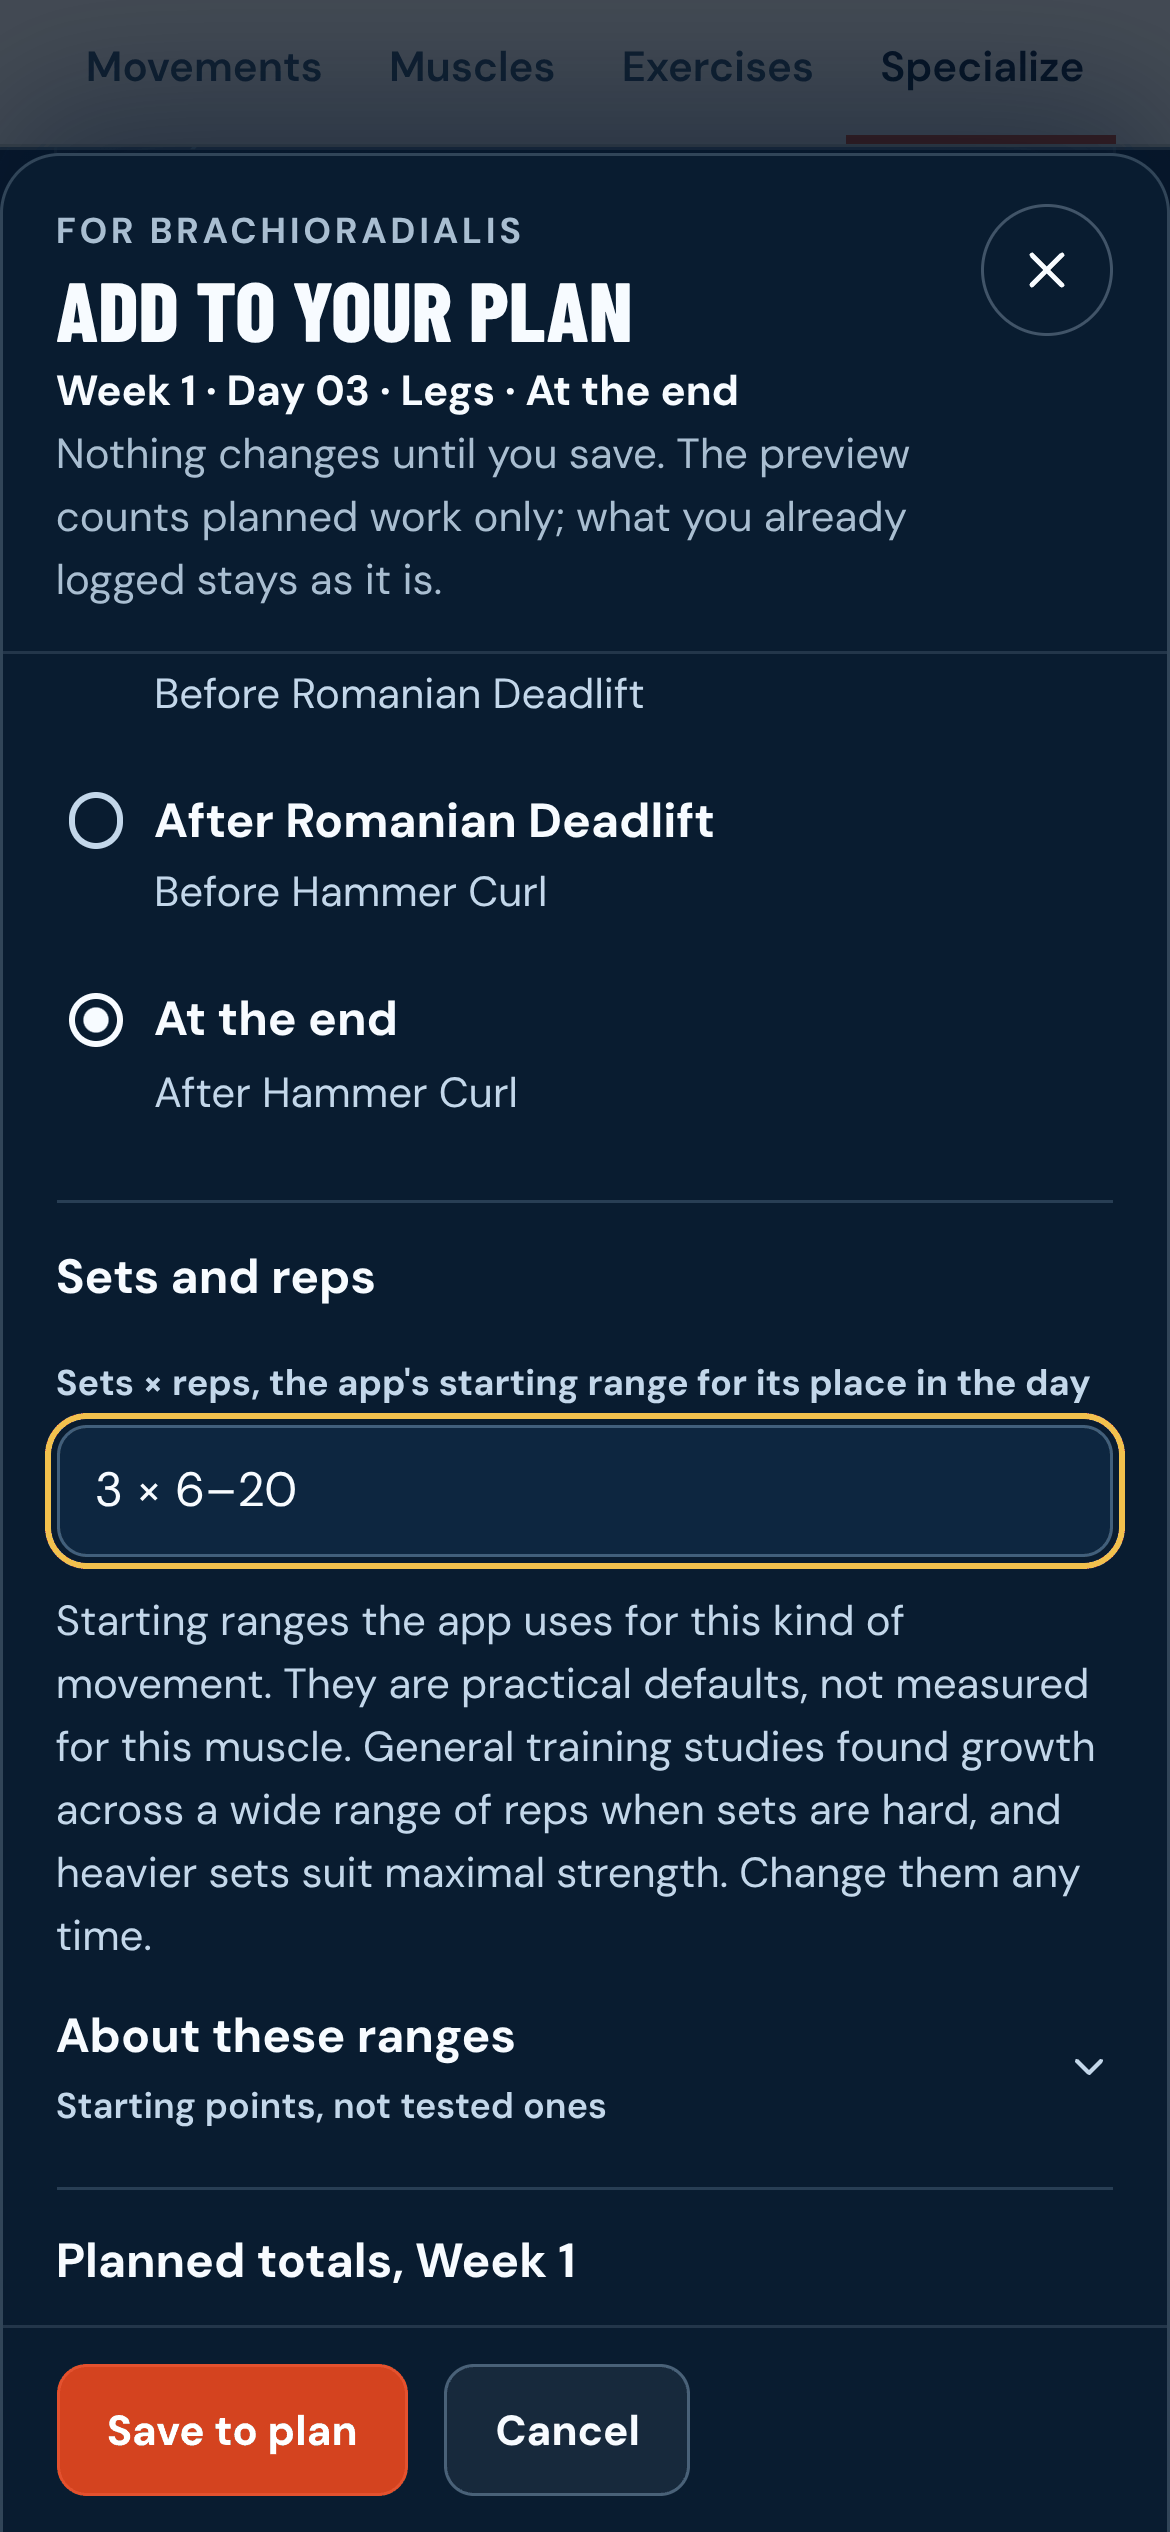
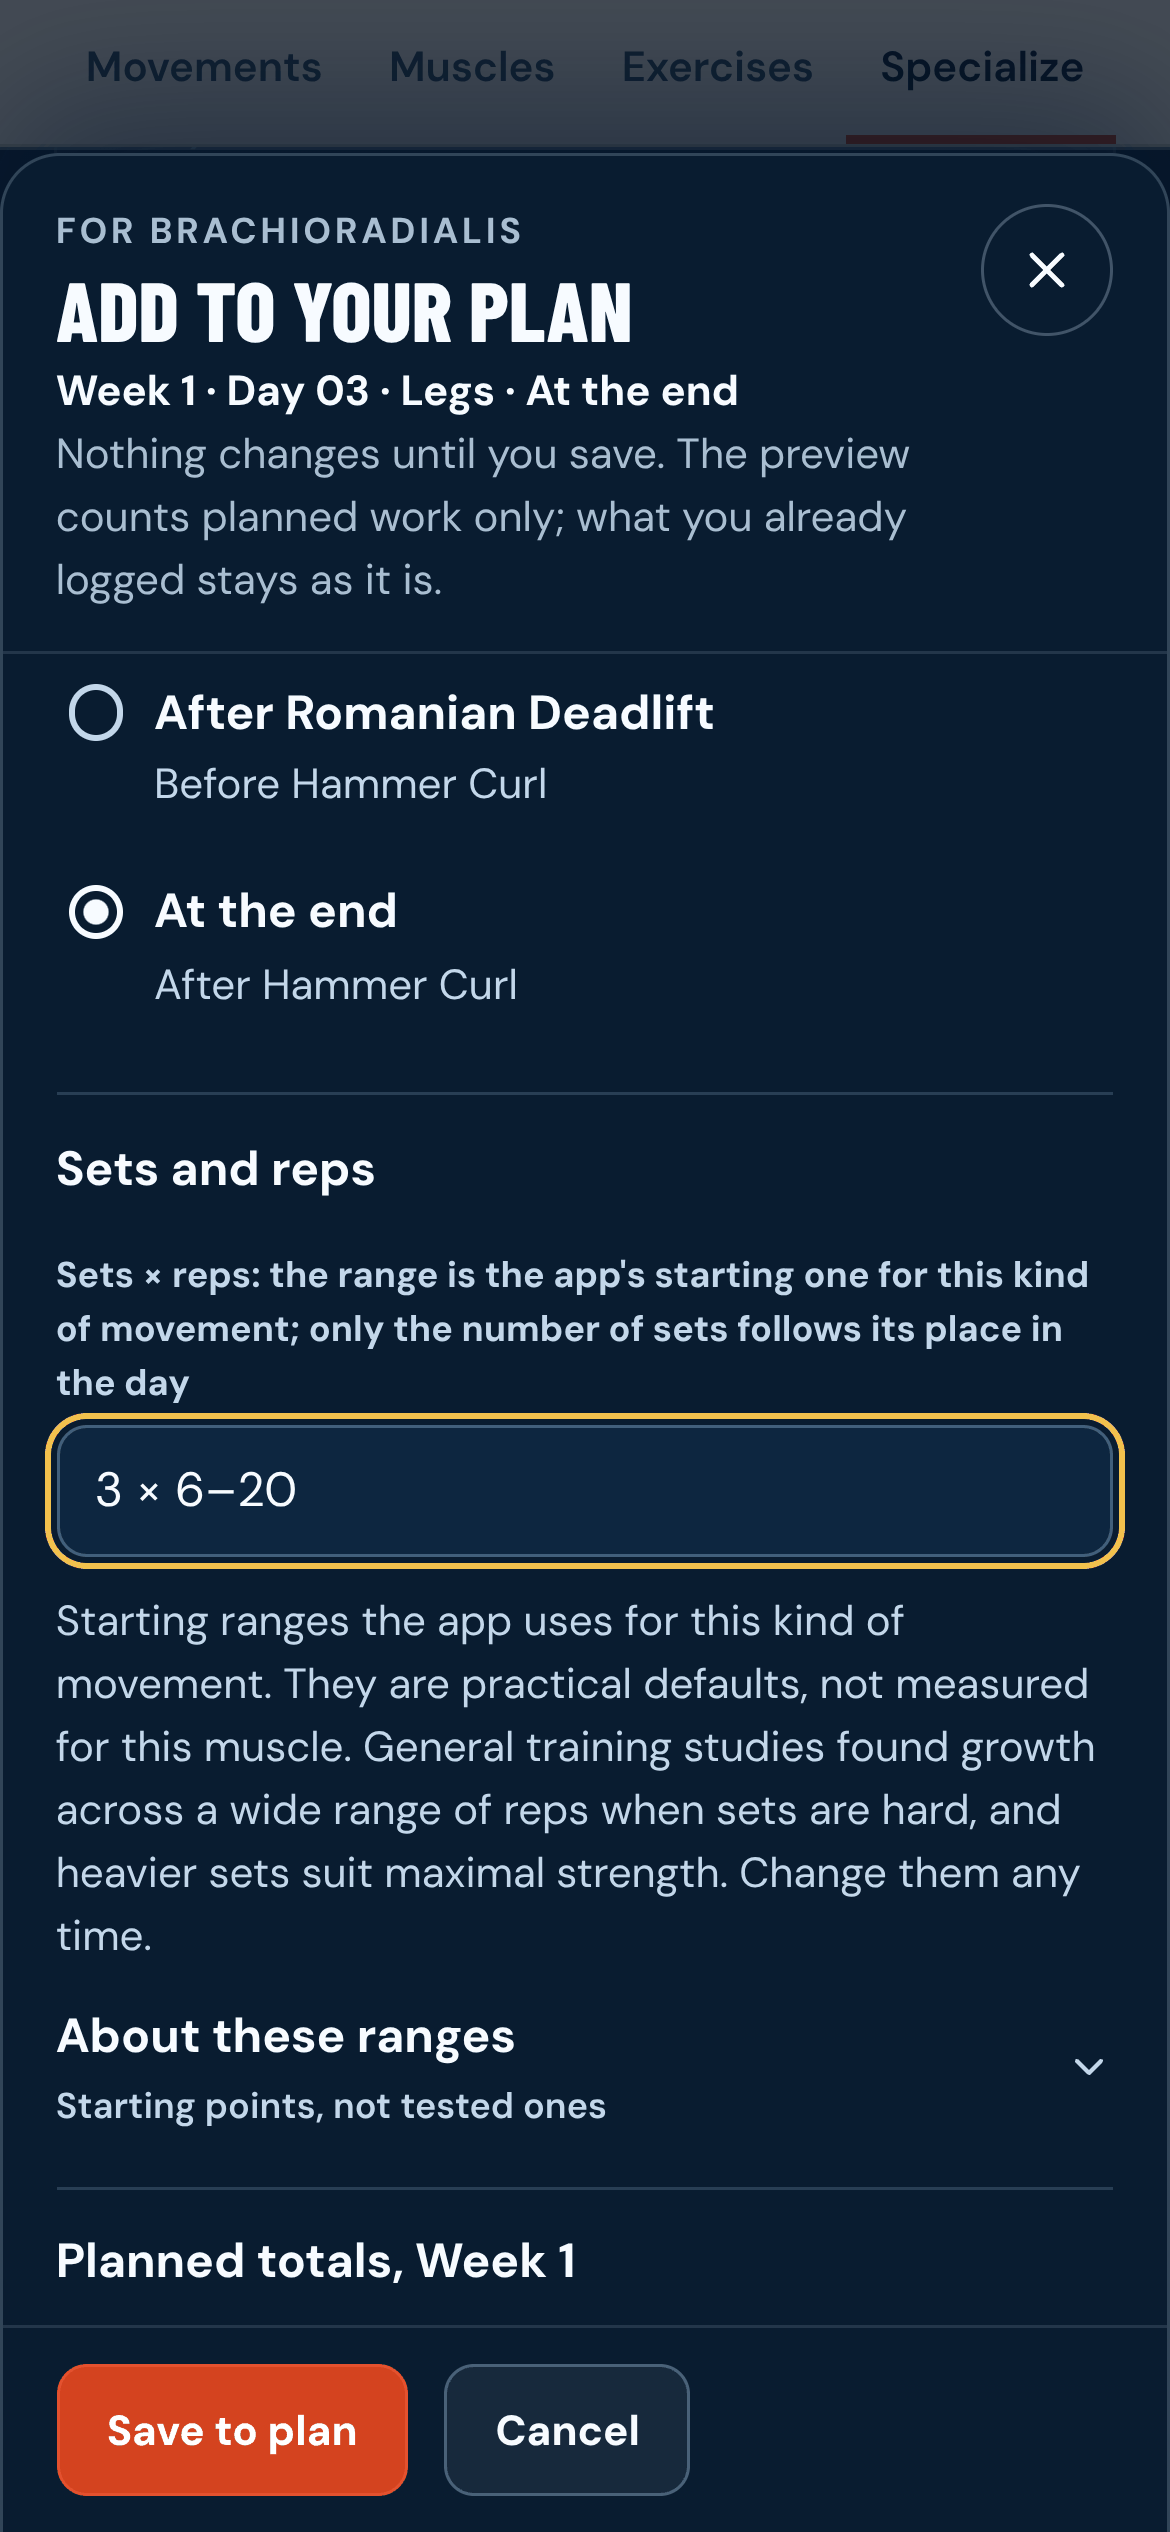
S4 phone evidence retaken at 390: after Add, Not in this stack, the add sheet's label
Headless Chromium emulating an iPhone (not an iPhone, not Safari), on the merge head:
after-add-390 lists one-arm entries with "· each arm" and the card's Undo now takes Home's
notice away (after-add-card-undo: 0 notices showing); not-in-this-stack-390 shows the gaps
line in the region's plain words with "Palmaris longus is missing in some people."; the
add sheet's field keeps 16 px under its reworded label. capture.mjs gains both scenes.

Claude-Session: https://claude.ai/code/session_01FVnPUDYaPCRVKb2WTVKYVF

Changed region(s): [[0.0308, 0.2496, 0.6154, 0.468], [0.0308, 0.4992, 0.9231, 0.5616]]

diff --git a/docs/specialization-atlas/09-page.md b/docs/specialization-atlas/09-page.md
@@ -179,7 +179,7 @@ The page side of [`11-forearm-research-and-stack.md`](11-forearm-research-and-st
 
 **The download gate, amended for F1 (coordinator's ruling, 23 Oct).** 11 §7.5 set the gate as "the closed page's download does not grow beyond the `sections` flag's few bytes". F1's closed page grows by +11,992 B raw (+4,280 B gzipped), all of it in the page's own chunk, and the gate is amended to that measured growth rather than the code moved. Why it is there: the closed card shows the plan week's direct moving sets (the shared count, `directWork.ts`) and the ways in (the strip's and the 3D panel's Design a stack, Coverage to review's finding, `open=stack`) before anything is fetched; the add sheet's prescription field, the muscle sheet's ranges, the extras loader and the hold-time fix live in components that are already part of the page's chunk. Moving them out would add a fetch to opening the add sheet and every muscle sheet, to save about 4 KB gzipped. The designer, the batch code, the profiles and the stack's model stay out of it.
 
-**Phone evidence** (headless Chromium emulating an iPhone: viewport, `isMobile`, `hasTouch`, device scale 3; not an iPhone, not Safari): [`evidence/stack-2026-10/`](evidence/stack-2026-10/), made again by its `capture.mjs`, with `checks.json`. In it: the first screen with the 3D model and with the drawing at 390, 375 and 430, before and after, the same apart from the window line's words (with the model, the map card ends 21 px lower at 390 and 375, below the first screen, where the Overview line is longer; with the drawing it ends where it did); the card closed under the map; the strip's and the 3D Overview's Design a stack; the §3.2 acceptance for plans A and C at 390 and 375, with the total control just under the sticky row (top 61, under a row ending at 49): the control, What changes and Add end at 411, above the dock at 774 and 597; a row open with Change; Leave out's line and Undo; after Add with its Undo (focused, 70 × 44, clear of the dock); Design for Week 2; the add sheet's field focused at 16 px with the visual viewport unscaled; the muscle sheet's ranges; 320 and 430 with no sideways scroll; the 44 px sweep with every part of the card open (35 controls, none under 44 px, none faint). A − or + on a heavy plan (7 days × 8 exercises × 4 sets) updates What changes in a median 37 ms and the next frame in 77.5 ms (nine runs, 55–171 ms), under the 100 ms gate, on the sandbox's CPU.
+**Phone evidence** (headless Chromium emulating an iPhone: viewport, `isMobile`, `hasTouch`, device scale 3; not an iPhone, not Safari): [`evidence/stack-2026-10/`](evidence/stack-2026-10/), made again by its `capture.mjs`, with `checks.json`. In it: the first screen with the 3D model and with the drawing at 390, 375 and 430, before and after, the same apart from the window line's words (with the model, the map card ends 21 px lower at 390 and 375, below the first screen, where the Overview line is longer; with the drawing it ends where it did); the card closed under the map; the strip's and the 3D Overview's Design a stack; the §3.2 acceptance for plans A and C at 390 and 375, with the total control just under the sticky row (top 61, under a row ending at 49): the control, What changes and Add end at 411, above the dock at 774 and 597; a row open with Change; Leave out's line and Undo; after Add with its Undo (focused, 70 × 44, clear of the dock), entry by entry with "· each arm" on one-arm exercises, and Home's notice gone once the card's Undo is pressed; Not in this stack's line on the muscles nothing trains directly (`not-in-this-stack-390.png`); (these three, and the add sheet at 390, retaken on 23 Oct after the review's fixes) Design for Week 2; the add sheet's field focused at 16 px with the visual viewport unscaled; the muscle sheet's ranges; 320 and 430 with no sideways scroll; the 44 px sweep with every part of the card open (35 controls, none under 44 px, none faint). A − or + on a heavy plan (7 days × 8 exercises × 4 sets) updates What changes in a median 37 ms and the next frame in 77.5 ms (nine runs, 55–171 ms), under the 100 ms gate, on the sandbox's CPU.
 
 ## Tests
 
